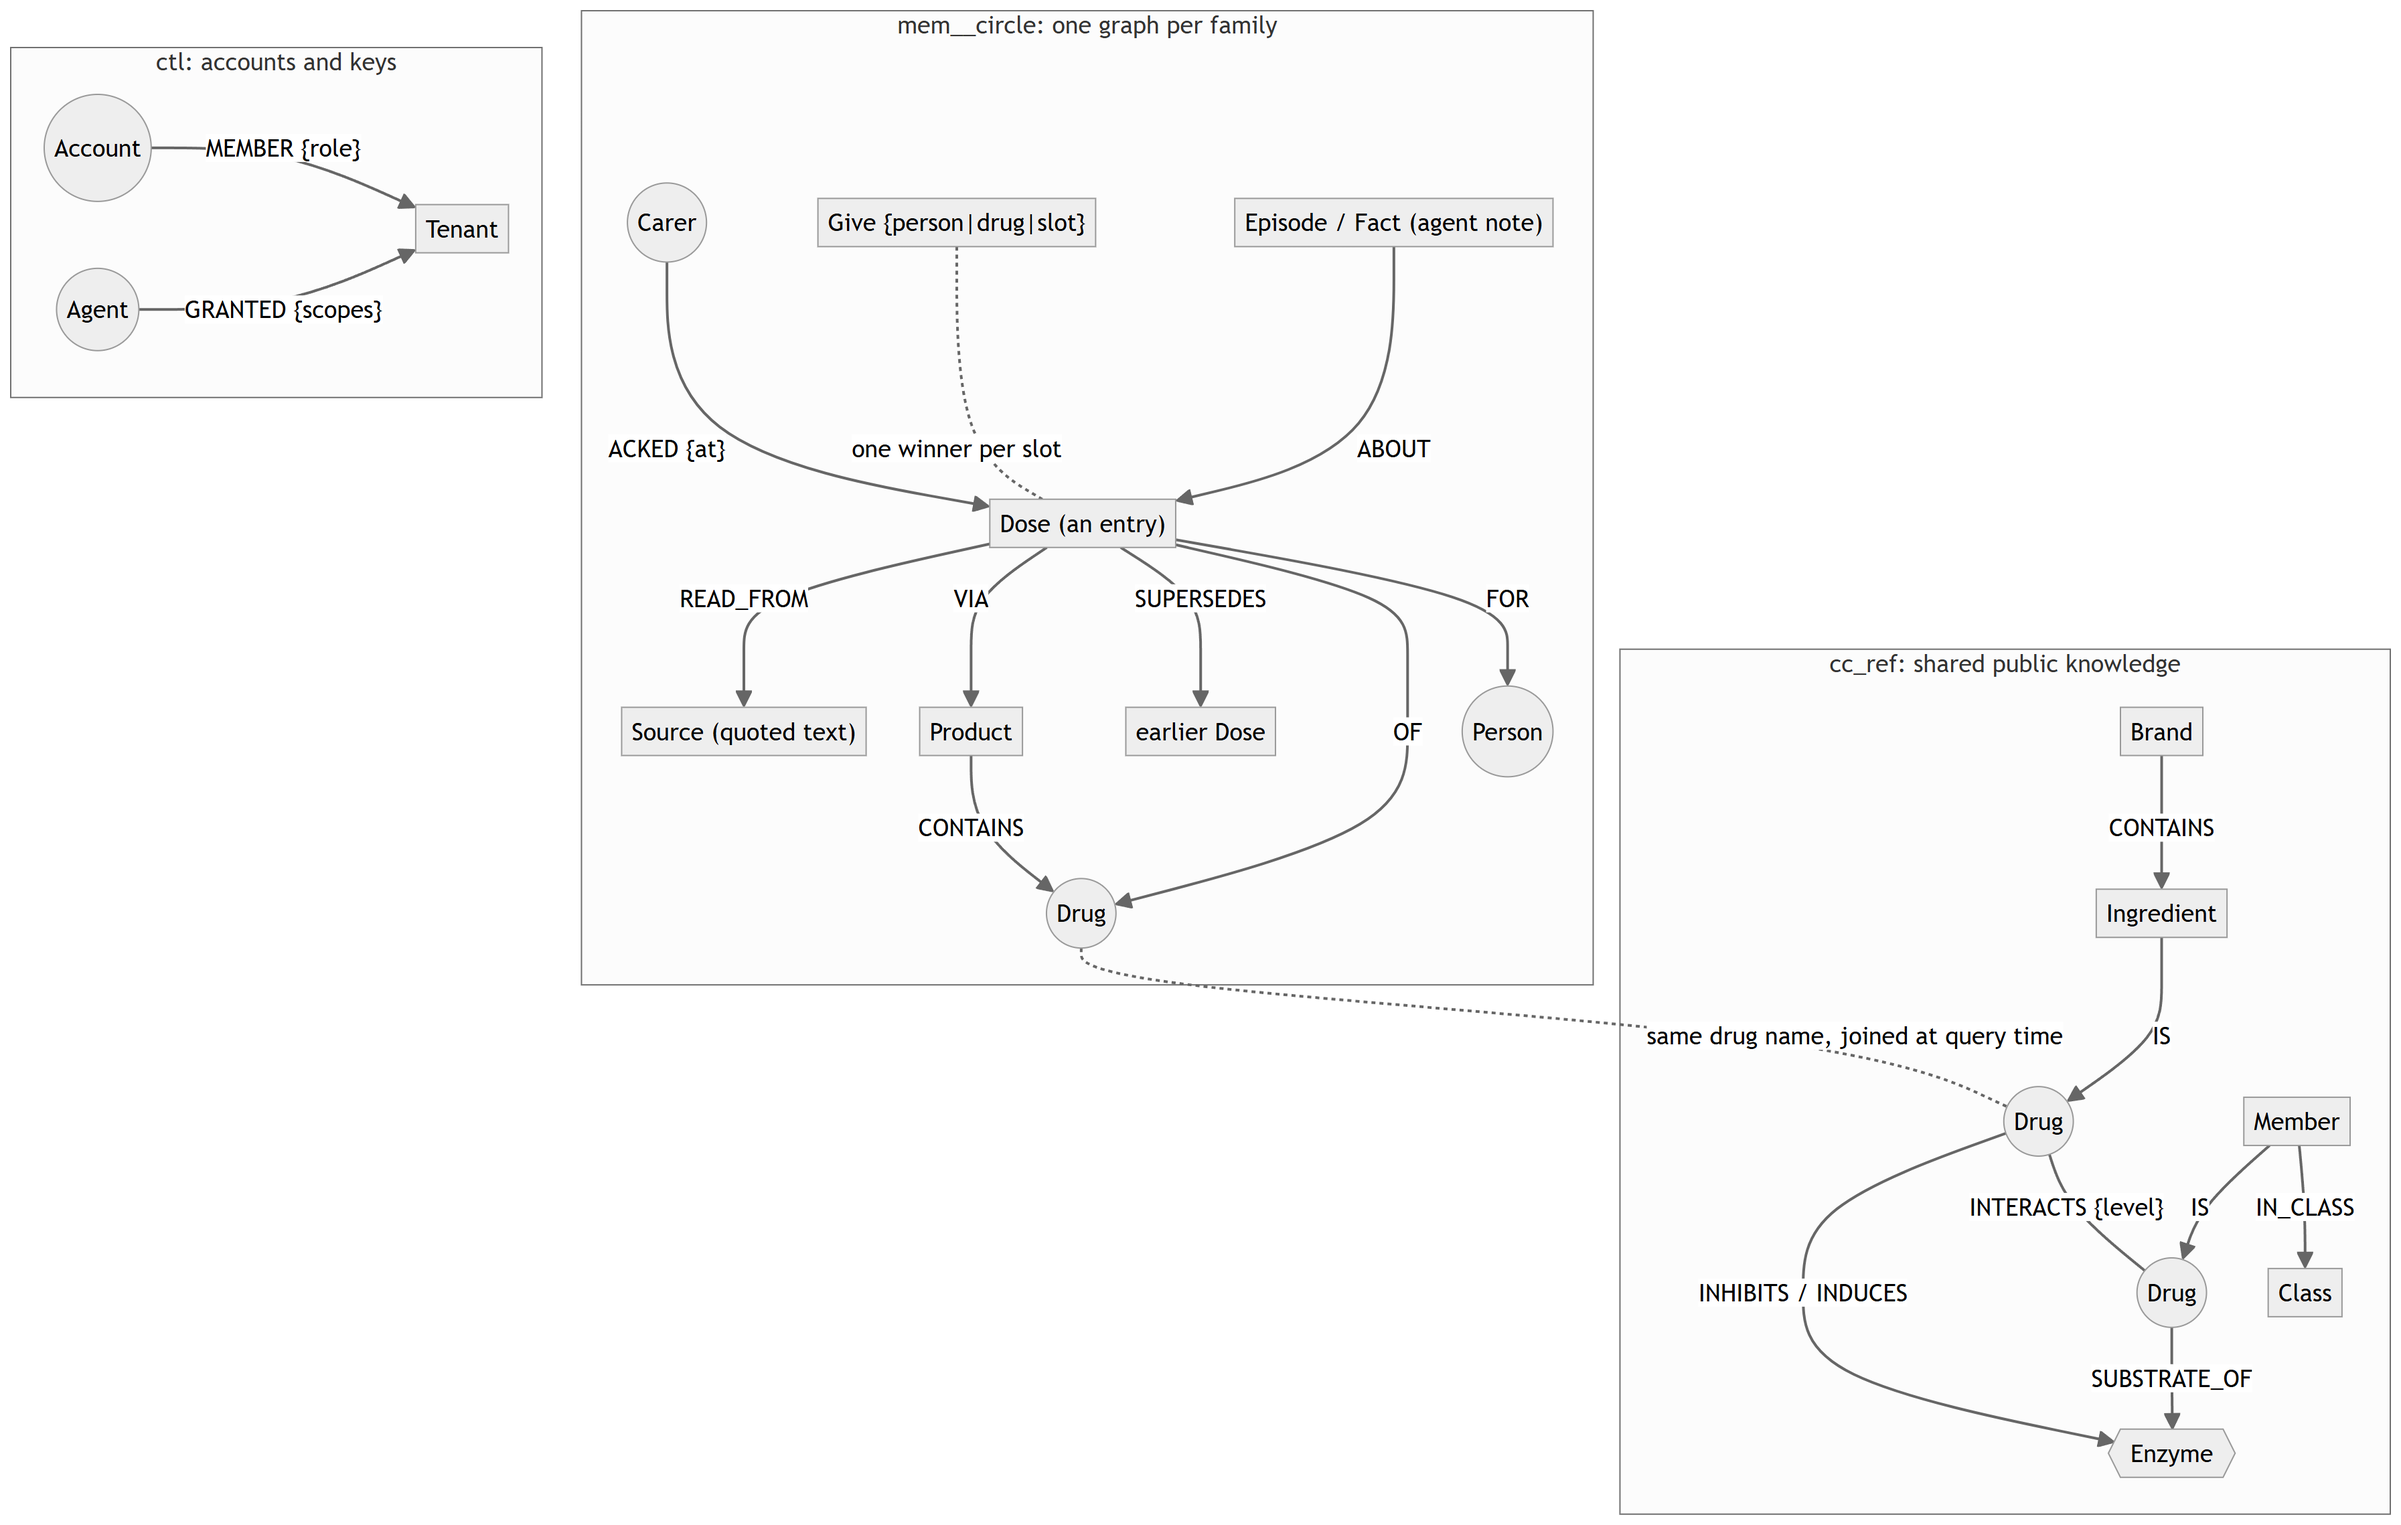
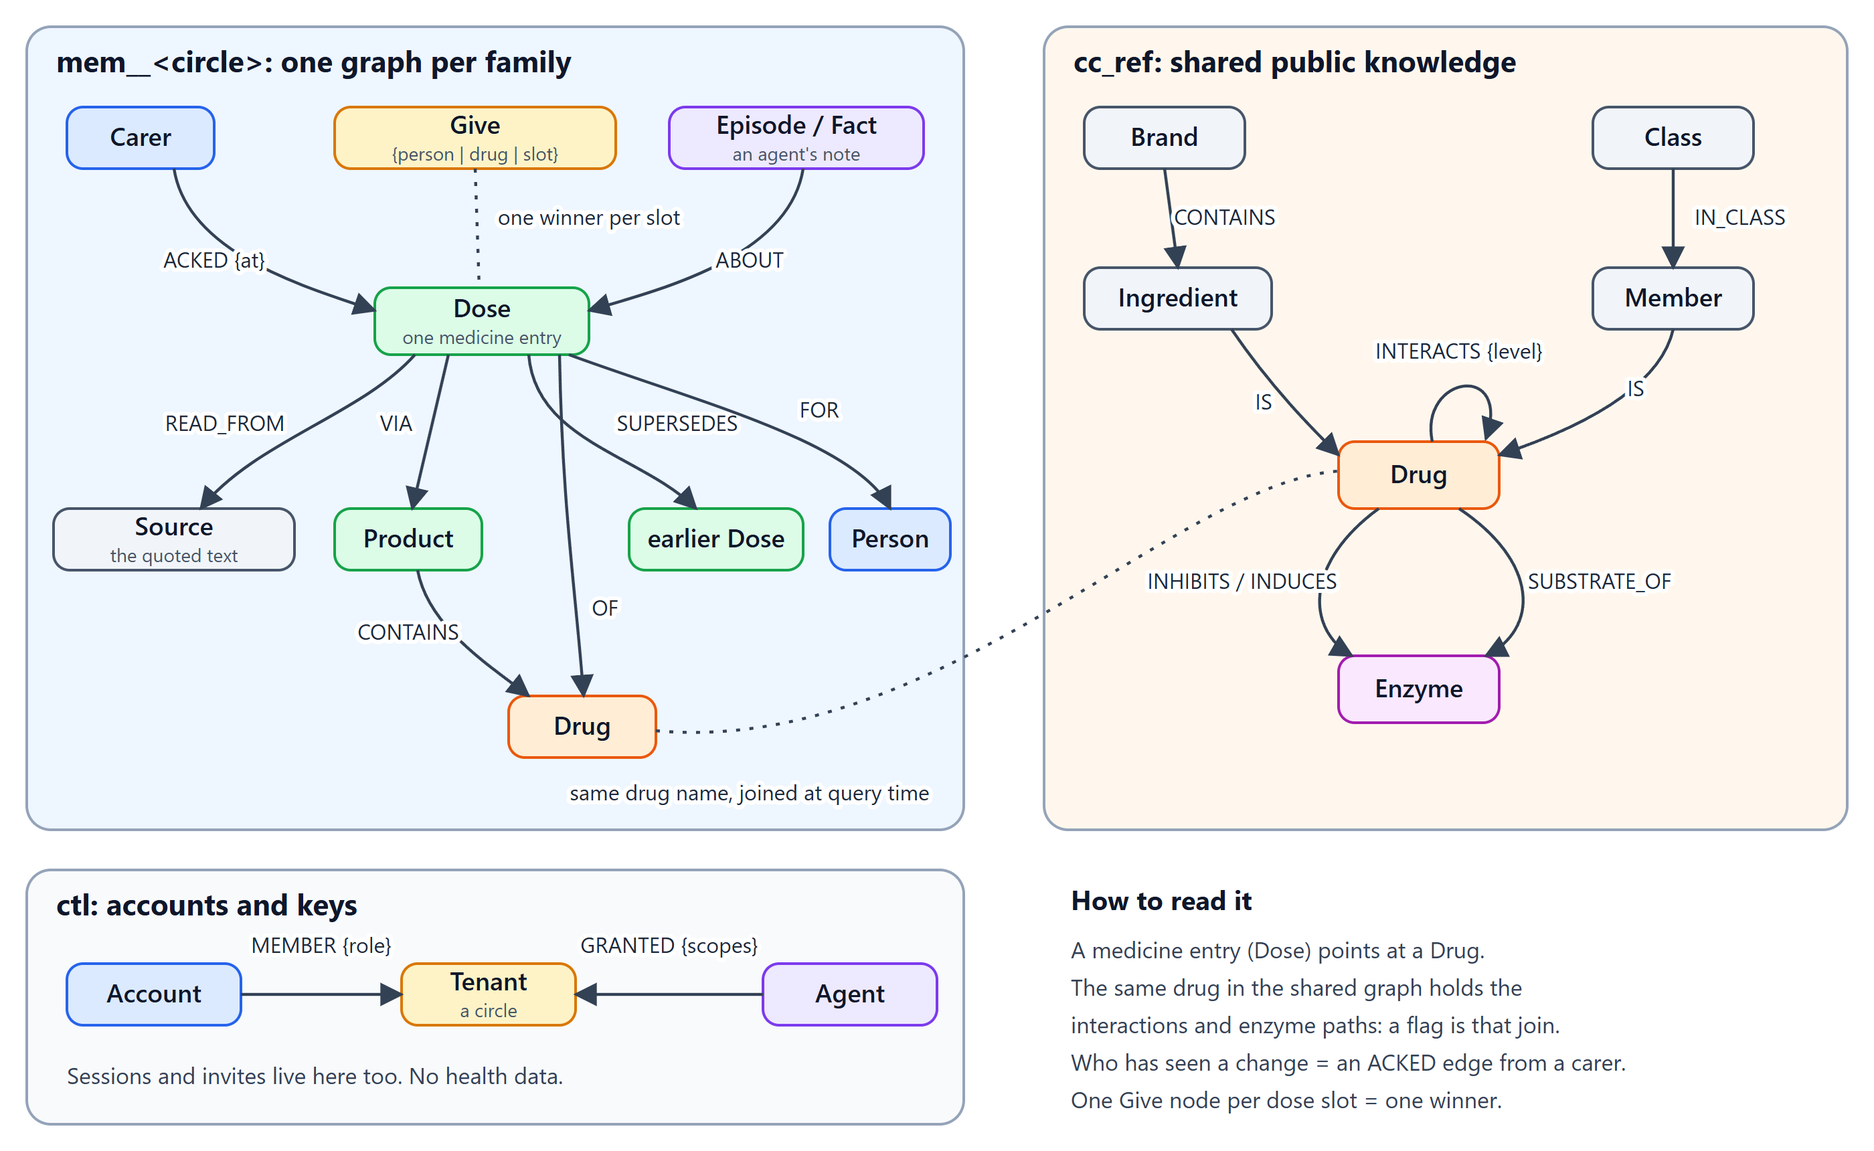
README: a compact, balanced graph map (one Drug per side, larger labels)

diff --git a/README.md b/README.md
@@ -84,7 +84,7 @@ Read it as: a medicine entry (`Dose`) in a family's graph points at a `Drug`; th
 
 ![The three graphs: shared reference knowledge, one graph per family, and accounts and keys](docs/img/graph-map.png)
 
-<sub>Source of the diagram: [`docs/img/graph-map.mmd`](docs/img/graph-map.mmd) (Mermaid).</sub>
+<sub>Editable source: [`docs/img/graph-map.svg`](docs/img/graph-map.svg).</sub>
 
 ## Cypher queries and graph algorithms the product depends on
 
